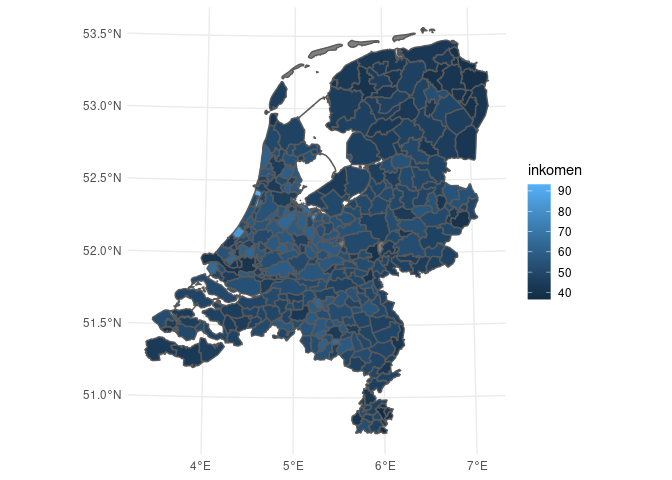
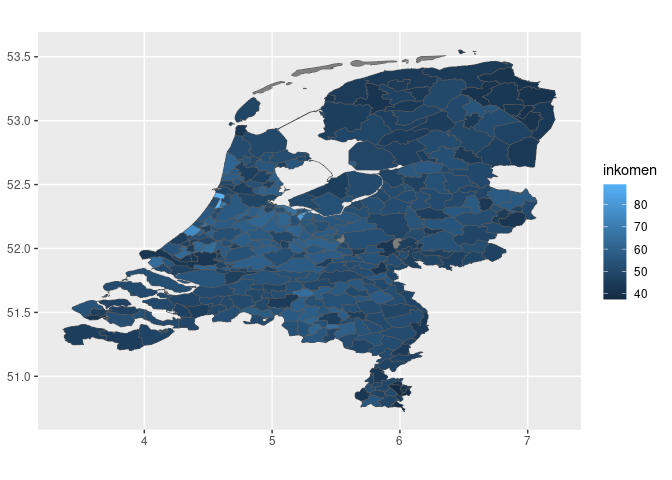
Update CBS tutorial

diff --git a/tutorials/cbs_dutch.md b/tutorials/cbs_dutch.md
@@ -3,19 +3,21 @@ Werken met CBS data
 Wouter van Atteveldt
 September 2021
 
--   [CBS](#cbs)
-    -   [Package cbsodataR: CBS Open Data in
-        R](#package-cbsodatar-cbs-open-data-in-r)
--   [Gegevens ophalen](#gegevens-ophalen)
-    -   [Metadata](#metadata)
-    -   [Koppelen van gegevens en
-        metadata](#koppelen-van-gegevens-en-metadata)
--   [Analyseren van de gegevens](#analyseren-van-de-gegevens)
--   [Grotere datasets](#grotere-datasets)
-    -   [Data opslaan](#data-opslaan)
-    -   [Filteren bij het ophalen](#filteren-bij-het-ophalen)
--   [Visualiseren van informatie per
-    gemeente](#visualiseren-van-informatie-per-gemeente)
+- [CBS](#cbs)
+  - [Package cbsodataR: CBS Open Data in
+    R](#package-cbsodatar-cbs-open-data-in-r)
+- [Gegevens ophalen](#gegevens-ophalen)
+  - [Metadata](#metadata)
+  - [Koppelen van gegevens en
+    metadata](#koppelen-van-gegevens-en-metadata)
+- [Analyseren van de gegevens](#analyseren-van-de-gegevens)
+- [CBS Variabelen en relatieve
+  gegevens](#cbs-variabelen-en-relatieve-gegevens)
+- [Grotere datasets](#grotere-datasets)
+  - [Data opslaan](#data-opslaan)
+  - [Filteren bij het ophalen](#filteren-bij-het-ophalen)
+- [Visualiseren van informatie per
+  gemeente](#visualiseren-van-informatie-per-gemeente)
 
 # CBS
 
@@ -46,6 +48,12 @@ voor gegevens er dan terugkomen.
 Wat voor ons ook belangrijk is om te zien is de naam van de dataset in
 de adresbalk, in dit geval is dit `70072ned`. Deze naam hebben we nodig
 om de gegevens in R direct op te halen.
+
+Als je in R met CBS data werkt is het vaak zinvol om tegelijkertijd op
+statline dezelfde tabel te bekijken. Daar kan je vaak makkelijker zien
+welke gegevens erin staan en wat elke kolom betekent: Als de kolomnamen
+in R niet duidelijk of eenduidig zijn, kan je in het menu van statline
+dezelfde kolommen zien.
 
 ## Package cbsodataR: CBS Open Data in R
 
@@ -140,7 +148,7 @@ Wat we doen is allereerst even een selectie maken van de relevante
 kolommen in de data:
 
 ``` r
-d_deeltijd = select(d, Geslacht, Persoonskenmerken, Perioden, totaal=WerkzameBeroepsbevolking_1, deeltijd=Deeltijd_2)
+d_deeltijd <- select(d, Geslacht, Persoonskenmerken, Perioden, totaal=WerkzameBeroepsbevolking_1, deeltijd=Deeltijd_2)
 d_deeltijd
 ```
 
@@ -148,7 +156,7 @@ Vervolgens koppelen we hier geslacht aan. Om dit makkelijker te maken
 selecten en hernoemen we de relevante kolommen uit de metadata:
 
 ``` r
-geslacht = select(m$Geslacht, Geslacht=Key, Geslacht_label=Title)
+geslacht <- select(m$Geslacht, Geslacht=Key, Geslacht_label=Title)
 geslacht
 ```
 
@@ -156,14 +164,14 @@ Omdat de kolomnaam `Geslacht` nu overeenkomen in beide data frames
 kunnen we ze gelijk koppelen:
 
 ``` r
-d_deeltijd = inner_join(d_deeltijd, geslacht)
+d_deeltijd <- inner_join(d_deeltijd, geslacht)
 d_deeltijd
 ```
 
 En we doen hetzelfde voor Persoonskenmerken en Perioden:
 
 ``` r
-d_deeltijd = d_deeltijd |>
+d_deeltijd <- d_deeltijd |>
   inner_join(select(m$Persoonskenmerken, Persoonskenmerken=Key, Persoonskenmerken_label=Title)) |>
   inner_join(select(m$Perioden, Perioden=Key, Perioden_label=Title))
 d_deeltijd
@@ -184,7 +192,7 @@ vrouwen apart), persoonskenmerken (alleen totaal), en perioden (alleen
 de jaren).
 
 ``` r
-d_subset = filter(d_deeltijd, Geslacht_label %in% c("Mannen", "Vrouwen"), 
+d_subset <- filter(d_deeltijd, Geslacht_label %in% c("Mannen", "Vrouwen"), 
        Persoonskenmerken_label == "Totaal personen",
        !str_detect(Perioden_label, 'kwartaal'))
 ```
@@ -195,7 +203,7 @@ van het jaartal (`"2013"`) omzetten in een getal (`2013`), en
 beroepsbevolking berekenen:
 
 ``` r
-d_subset = d_subset |> 
+d_subset <- d_subset |> 
   mutate(jaar=as.numeric(Perioden_label), 
          procent_deeltijd = deeltijd / totaal)
 ```
@@ -223,6 +231,88 @@ ggplot(d_subset, aes(x=jaar, y=procent_deeltijd, color=Geslacht_label)) +
     theme(panel.grid = element_blank(), panel.grid.major.y=element_line(color="grey"), legend.position="bottom")
 ```
 
+# CBS Variabelen en relatieve gegevens
+
+In veel tabellen van CBS staan gegevens zowel relatief (bv werklozen per
+1000 inwoners) als absoluut (totaal aantal werklozen) Om een zinvolle
+analyse te doen wil je meestal relatieve gegevens gebruiken.
+
+Stel bijvoorbeeld dat je kijkt naar het totale aantal aangiftes per
+gemeente, en dat vergelijk je met het totaal aantal inwoners met een
+uitkering. Een stad als Amsterdam heeft veel meer inwoners dan
+Schiermonnikoog, en dus ook in totaal meer aangiftes en uitkeringen. Je
+vind dan dus altijd een sterk verband, maar dat zegt eigenlijk niets,
+behalve dat grote gemeentes nu eenmaal groot zijn. Gegevens moeten dus
+altijd relatief zijn (bv per 1000 inwoners) of een gemiddelde (bv
+gemiddeld inkomen, rapportcijfer voor leefbaarheid etc).
+
+Zorg dan goed dat je de relatieve kolom selecteert! Soms staan er alleen
+totale aantallen, dan moet je zelf ook het totaal aantal inwoners
+ophalen en daarmee delen, zodat je vanzelf een relatief aantal krijgt.
+
+Open bijvoorbeeld in je browser de [Statline regionale
+kerncijfers](https://opendata.cbs.nl/statline/#/CBS/nl/dataset/70072ned/table?ts=1695831454126).
+Ga in onderwerpen naar Bevolking en dan Migratieachtergrond. Je ziet
+daar naast ‘migratieachtergrond (aantal)’ ook ‘migratieachtergrond
+(relatief)’. Voor analyse zal je dus bijna altijd de tweede willen
+hebben.
+
+Vink nu `Totale bevolking`, `Nederlandse achtergrond (aantal)`, en
+`Nederlandse achtergrond (%)` aan, en klik op het vinkje bovenaan om de
+tabel te zien. Als het goed is zie je nu ongeveer hetzelfde als de
+screenshot hieronder:
+
+<figure>
+<img src="img/cbs_relatief.png" alt="Screenshot statline" />
+<figcaption aria-hidden="true">Screenshot statline</figcaption>
+</figure>
+
+In 2021 had Arnhem bijvoorbeeld 162.424 inwoners, waarvan 108.400 met
+Nederlandse achtergrond, en dat is 66.7%. Als we naar de totale
+kerncijfers kijken, dan zien we dat er heel veel kolommen zijn met vaak
+korte namen. Deze staan in dezelfde volgorde als in statline.
+
+Als we specifiek op zoek gaan naar kolommen met het woord ‘achtergrond’,
+dan zien we dat er twee zijn: “NederlandseAchtergrond_34” en
+“NederlandseAchtergrond_43”. Omdat de absolute gegevens in statline
+eerst stonden, weten
+
+``` r
+kerncijfers <- cbs_get_data("70072ned", RegioS=has_substring("GM"), Perioden="2021JJ00")
+colnames(kerncijfers)
+colnames(kerncijfers) |> str_subset("Achtergrond")
+```
+
+Als we nu die kolommen selecteren en filteren, samenvoegen met de
+gemeentenamen, en filteren op Arnhem dan zien we inderdaad dat de tweede
+kolom het percentage (66.7%) bevat:
+
+``` r
+kerncijfers_meta <- cbs_get_meta("70072ned")
+gemeentes <- kerncijfers_meta$RegioS |> select(RegioS=Key, gemeente=Title)
+kerncijfers |> select(RegioS, TotaleBevolking_1, NederlandseAchtergrond_34, NederlandseAchtergrond_43) |> 
+  inner_join(gemeentes) |>
+  filter(gemeente == "Arnhem")
+```
+
+Stel dat er alleen de eerste variabele in zou staan, dan zou je alsnog
+zelf het percentage kunnen berekenen door het aantal te delen door de
+totale bevolking:
+
+``` r
+kerncijfers |> select(RegioS, TotaleBevolking_1, NederlandseAchtergrond_34) |>
+  mutate(NederlandseAchtergrond_relatief = NederlandseAchtergrond_34 / TotaleBevolking_1) |>
+  inner_join(gemeentes) |>
+  filter(gemeente == "Arnhem")
+```
+
+Twee lessen om hieruit te trekken:
+
+- Bekijk goed de gegevens op statline en begrijp goed wat de kolommen in
+  R betekenen
+- Werk altijd met relatieve gegevens, vaak staan die er direct bij, en
+  anders kan je ze zelf ook berekenen.
+
 # Grotere datasets
 
 De dataset hierboven is behoorlijk klein en kan heel snel opgehaald
@@ -239,7 +329,7 @@ de code ook gelijk uitvoeren zonder zich af te vragen hoe je eigenlijk
 precies die data opgehaald had. Hiervoor kan je deze code gebruiken:
 
 ``` r
-bestandsnaam = "data_emancipatie.rds"
+bestandsnaam <- "data_emancipatie.rds"
 if (file.exists(bestandsnaam)) {
   d = read_rds(bestandsnaam)
 } else {
@@ -293,8 +383,8 @@ met `install.packages`:
 
 ``` r
 library(sf)
-map = st_read("https://geodata.nationaalgeoregister.nl/cbsgebiedsindelingen/wfs?request=GetFeature&service=WFS&version=2.0.0&typeName=cbs_gemeente_2020_gegeneraliseerd&outputFormat=json")
-head(map)
+shapes <- read_rds("https://github.com/vanatteveldt/ccslearnr/raw/master/data/sf_nl_2021.rds")
+as_tibble(shapes)
 ```
 
 Zoals je kan zien is dit een bijzonder soort dataframe, met enkele
@@ -304,7 +394,7 @@ ofwel de vorm van de gemeente.
 Deze kunnen we plotten met `geom_sf`:
 
 ``` r
-ggplot(map) + geom_sf() + theme_minimal()
+ggplot(shapes) + geom_sf() + theme_minimal()
 ```
 
 Nu is het uiteraard pas interessant als we hier ook relevate gegevens in
@@ -312,22 +402,25 @@ kunnen zetten. We zouden bijvoorbeeld een kaart kunnen maken van
 gemiddeld inkomen per gemeente.
 
 We halen eerst de relevante kerncijfers per gemeente op bij CBS, en
-selecteren de regio en inkomensgegevens. We hernoemen ook de regioS code
-naar `statcode` omdat die in `map` ook zo heet.
+selecteren de regio en inkomensgegevens. Dit koppelen we aan de
+metagegevens van de RegioS kolom zodat we de gemeentenaam hebben.
 
 Noot: we filteren hier bij het ophalen al op periode en regio, dat
 scheelt een hoop wachten!
 
 ``` r
-inkomen = cbs_get_data("70072ned", RegioS=has_substring("GM"), Perioden="2020JJ00") |>
-  select(statcode=RegioS, inkomen=ParticuliereHuishoudensExclStudenten_122)
+meta <- cbs_get_meta("70072ned")
+inkomen <- cbs_get_data("70072ned", RegioS=has_substring("GM"), Perioden="2021JJ00") |>
+  select(RegioS, inkomen=ParticuliereHuishoudensExclStudenten_122)
+gemeentes <- meta$RegioS |> as_tibble() |> select(RegioS=Key, gemeente=Title)
+inkomen = inner_join(inkomen, gemeentes)
 ```
 
 Nu kunnen we de kaart en inkomensgegevens koppelen en plotten:
 
 ``` r
-inner_join(map, inkomen) |>
-  ggplot() + geom_sf(aes(fill=inkomen)) + theme_minimal()
+inner_join(inkomen, shapes) |>
+  ggplot(aes(geometry=geom, fill=inkomen)) + geom_sf()
 ```
 
 ![](img/cbsmap-1.png)<!-- -->
